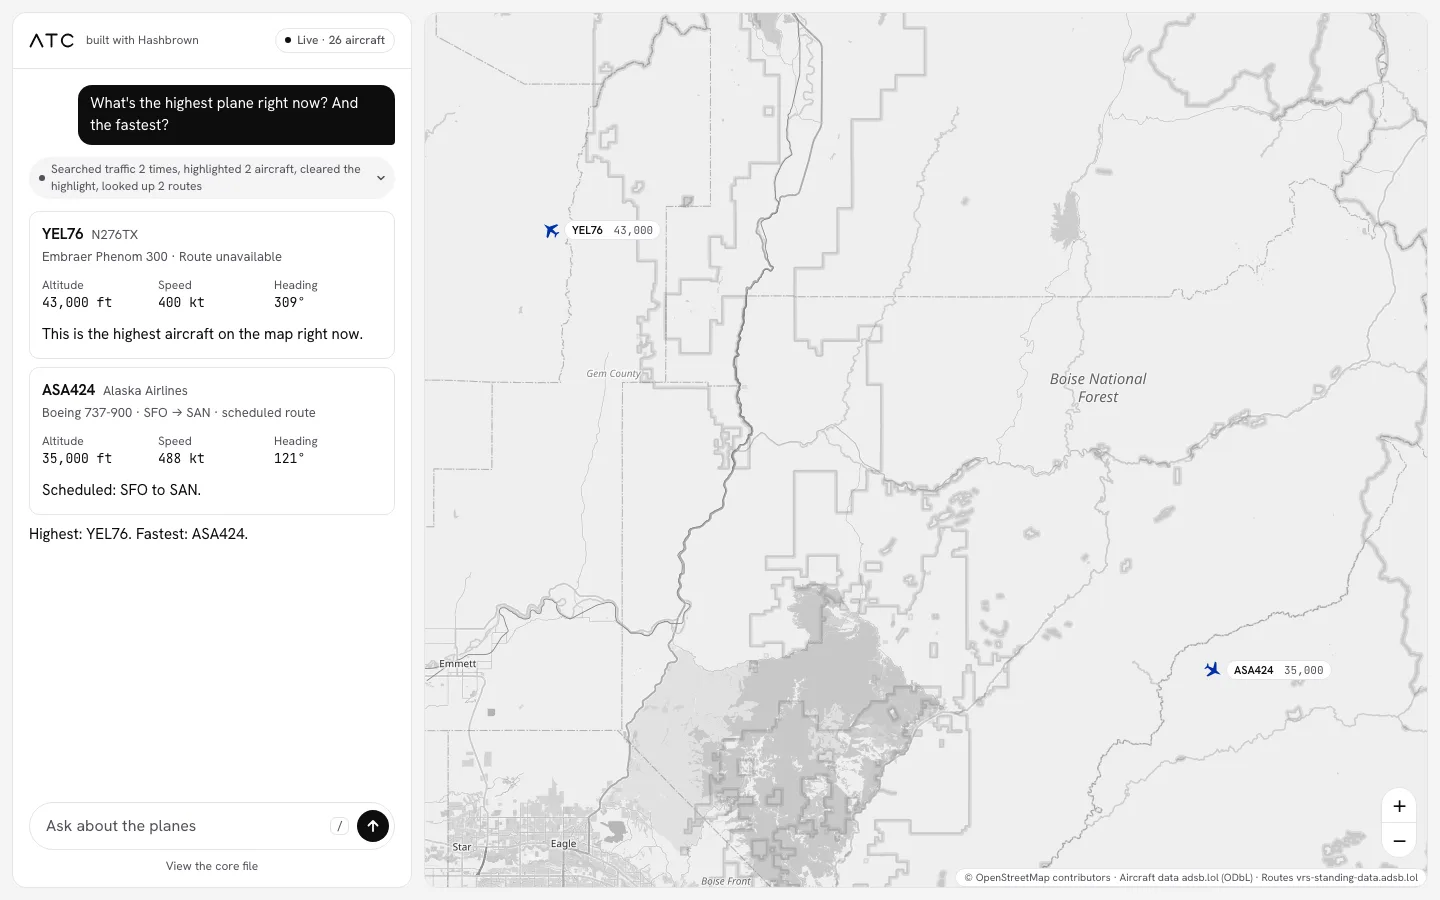
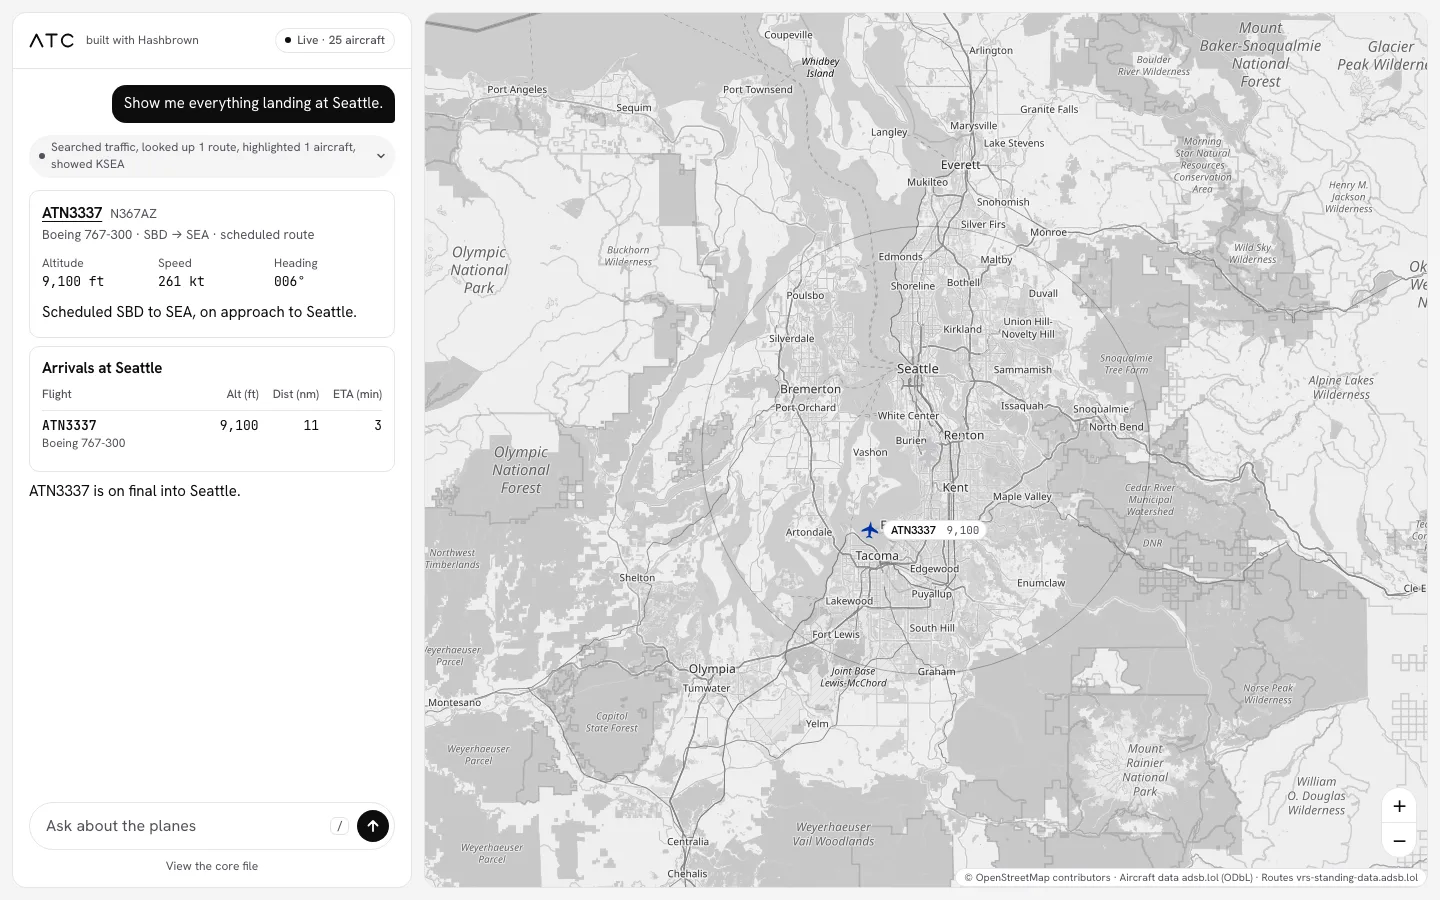
docs(www): recapture the atc showcase on Seattle arrivals
The desktop screenshot now shows the answer to "Show me everything landing
at Seattle." with its flight card and arrivals board beside the Seattle
area map. The two crops are separate images so each has its own alt text,
the homepage test checks the b4 and pretable tiles are gone, and the blog
update notes name atc as the maintained example.

diff --git a/www/src/components/home/RealApp.tsx b/www/src/components/home/RealApp.tsx
@@ -54,21 +54,24 @@ export function RealApp() {
           target="_blank"
           rel="noopener"
         >
-          <picture>
-            <source
-              media="(max-width: 767px)"
-              srcSet="/image/landing-page/atc-mobile.webp"
-              width={585}
-              height={1266}
-            />
-            <img
-              src="/image/landing-page/atc.webp"
-              alt="The atc example answering which planes are the highest and fastest right now, with two flight cards beside a map that highlights both planes"
-              loading="lazy"
-              width={1440}
-              height={900}
-            />
-          </picture>
+          {/* Two images rather than <picture>, so each crop has its own alt text.
+              The hidden one is display: none, so lazy loading skips it. */}
+          <img
+            className={styles.desktop}
+            src="/image/landing-page/atc.webp"
+            alt="The atc example answering what is landing at Seattle with a flight card and an arrivals board, beside a map of the Seattle area that highlights the arriving plane"
+            loading="lazy"
+            width={1440}
+            height={900}
+          />
+          <img
+            className={styles.phone}
+            src="/image/landing-page/atc-mobile.webp"
+            alt="The atc example on a phone answering which planes are the highest and fastest, with a flight card under a map of the Pacific Northwest that labels both planes"
+            loading="lazy"
+            width={585}
+            height={1266}
+          />
         </a>
       </div>
     </div>

diff --git a/www/test/home/home-page.spec.tsx b/www/test/home/home-page.spec.tsx
@@ -113,6 +113,21 @@ test('links the atc showcase and threadplane', async () => {
   expect(html).toContain('/image/landing-page/atc-mobile.webp');
 });
 
+test('the atc showcase has no b4 or pretable tiles', async () => {
+  const html = await render();
+
+  const section = html.slice(
+    html.indexOf('See it in a real app'),
+    html.indexOf('/image/landing-page/atc-mobile.webp'),
+  );
+
+  expect(section).toContain('Tools in the browser');
+  expect(section).not.toContain('b4.run');
+  expect(section).not.toContain('pretable.ai');
+  expect(section).not.toContain('Agent backend');
+  expect(section).not.toContain('Data grid');
+});
+
 test('pitches threadplane with a plain headline and no photo', async () => {
   const html = await render();
 

diff --git a/www/src/components/home/RealApp.module.css b/www/src/components/home/RealApp.module.css
@@ -73,6 +73,21 @@
   border-radius: 16px;
 }
 
+/* Matches the breakpoint the old <picture> source used. */
+.shot .desktop {
+  display: none;
+}
+
+@media screen and (min-width: 768px) {
+  .shot .desktop {
+    display: block;
+  }
+
+  .shot .phone {
+    display: none;
+  }
+}
+
 @media screen and (min-width: 1024px) {
   .card {
     grid-template-columns: minmax(0, 0.9fr) minmax(0, 1.1fr);

diff --git a/www/content/blog/2025-09-05-hashbrown-v-0-3-0.md b/www/content/blog/2025-09-05-hashbrown-v-0-3-0.md
@@ -261,7 +261,7 @@ We have also added a new sample application to Hashbrown demonstrating consuming
 
 You can check out the source code for the Spotify Sample in the Hashbrown monorepo, with complete instructions on how to get it running. We currently have an Angular implementation and will be working on a React implementation soon (contributors welcome!). If you’re curious about the architecture and design, stay tuned for our appearance on Web Dev Challenge to see how we made it.
 
-_Update: the Spotify example has been retired. Its [historical source](https://github.com/liveloveapp/hashbrown/tree/43e40ba5/samples/spotify) remains available; [Invoicing](/docs/react/start/sample) is the maintained example._
+_Update: the Spotify example has been retired. Its [historical source](https://github.com/liveloveapp/hashbrown/tree/43e40ba5/samples/spotify) remains available; [atc](/docs/react/start/sample) is the maintained example._
 
 Overall, we are choosing to exercise restraint in our MCP API surface with this limited integration. It’s not clear to us how applicable MCP will be for creating apps with generative UI. If you have use cases for MCP with Hashbrown, we would love to hear from you to help shape future MCP APIs. Drop me a line with feedback via email: mike@liveloveapp.com
 

diff --git a/www/content/blog/2026-07-09-hashbrown-v-0-5-0.md b/www/content/blog/2026-07-09-hashbrown-v-0-5-0.md
@@ -151,7 +151,7 @@ The v0.5 docs now include:
 
 We also cleaned up and deployed the Fast Food nutrition sample. That sample is useful because it exercises the kind of product workflow Hashbrown is meant for: structured data, model-assisted exploration, charts, and a real UI around the generated output.
 
-_Update: the Fast Food example has since been retired. See [Invoicing](/docs/react/start/sample) for the maintained example, or the [historical Fast Food source](https://github.com/liveloveapp/hashbrown/tree/43e40ba5/samples/fast-food)._
+_Update: the Fast Food example has since been retired. See [atc](/docs/react/start/sample) for the maintained example, or the [historical Fast Food source](https://github.com/liveloveapp/hashbrown/tree/43e40ba5/samples/fast-food)._
 
 Getting CI green is important. Getting a sample app to feel developer-green and user-green matters too.
 

diff --git a/www/content/blog/2025-09-24-spotify-game-with-hashbrown.md b/www/content/blog/2025-09-24-spotify-game-with-hashbrown.md
@@ -32,7 +32,7 @@ Here is what we built in 4 hours.
 ## Source Code
 
 This article describes a retired example. The source below is preserved at its
-historical revision. For the maintained example, see [Invoicing](/docs/react/start/sample).
+historical revision. For the maintained example, see [atc](/docs/react/start/sample).
 
 - [Archived source code on GitHub](https://github.com/liveloveapp/hashbrown/tree/43e40ba5/samples/spotify).
 
